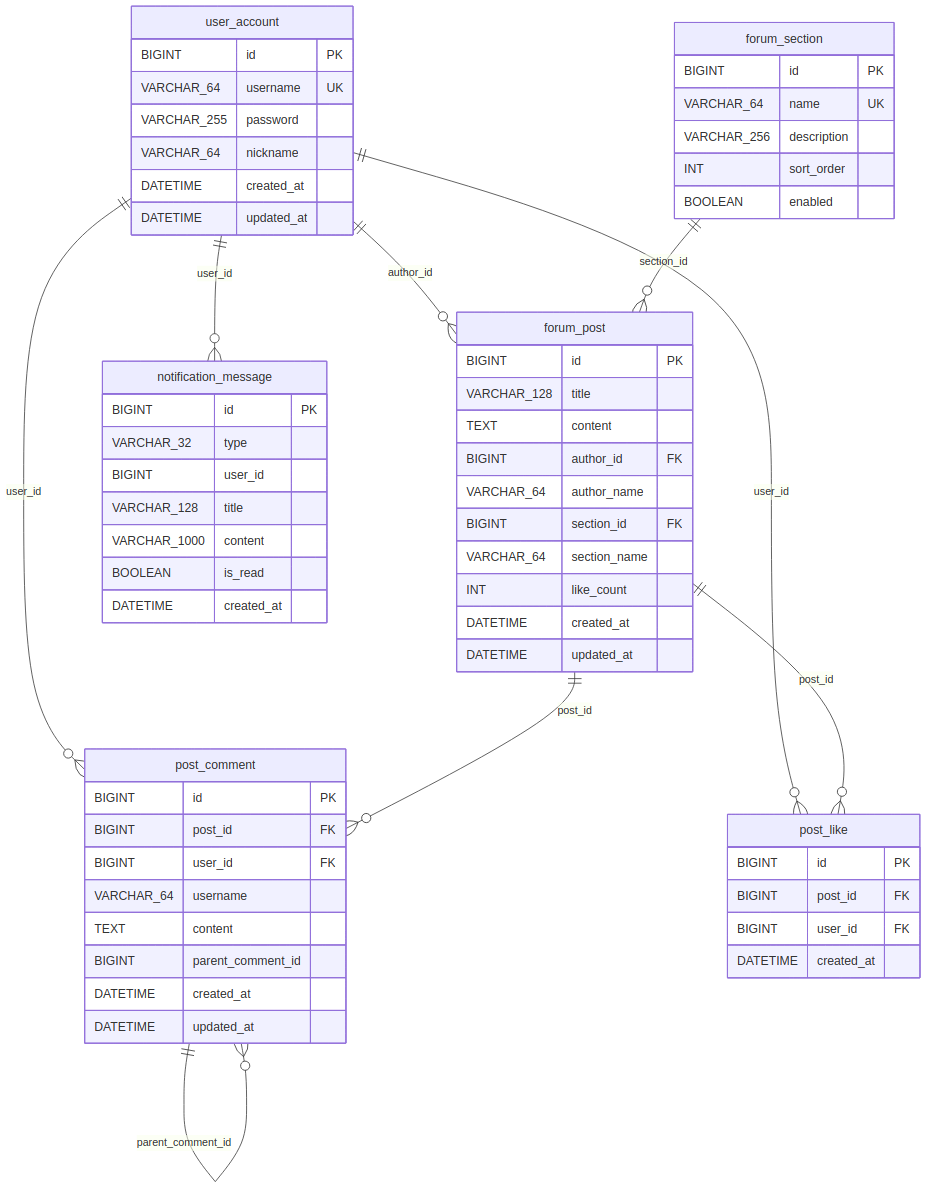
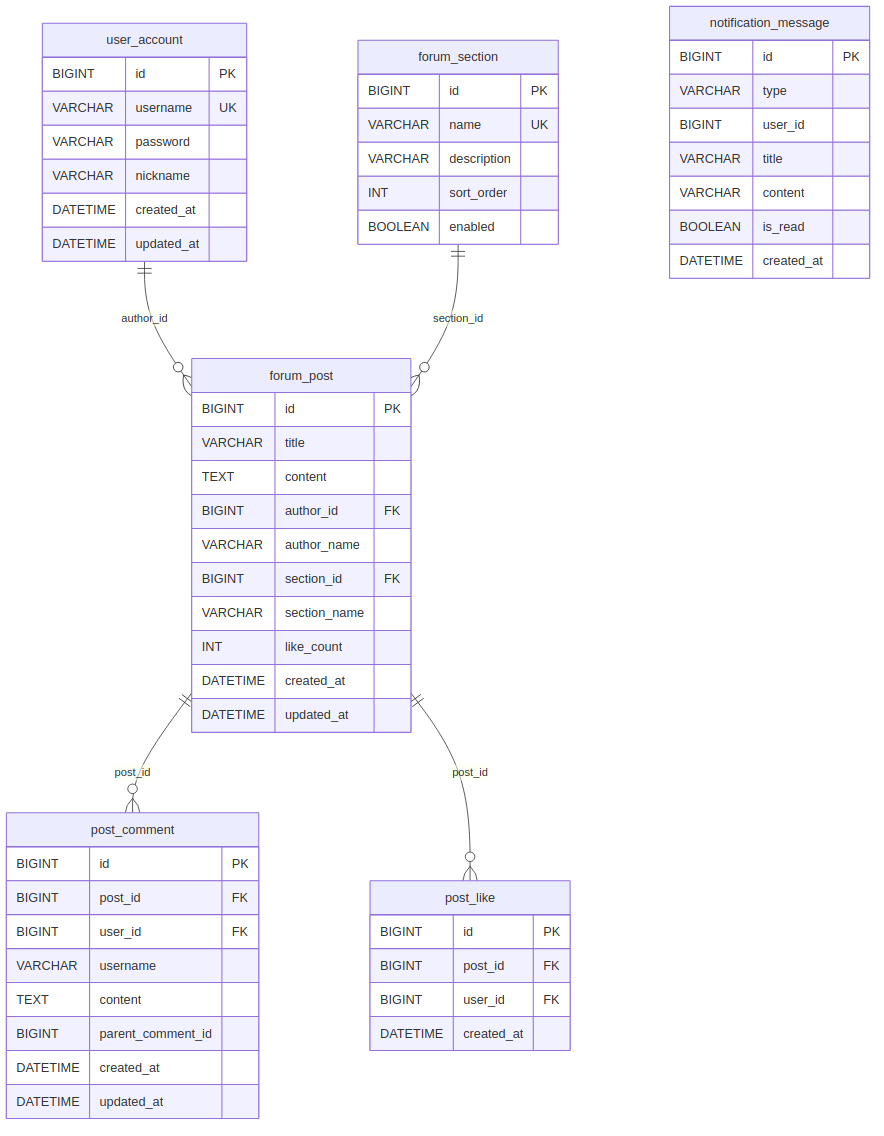
docs: ER图精简为4条核心关系线消除交叉, 其余关系以FK标记+正文说明

diff --git a/docs/第四章 系统详细设计与实现.md b/docs/第四章 系统详细设计与实现.md
@@ -38,7 +38,7 @@ media-service 提供两个接口：媒体首页（GET /media/home）和推荐列
 
 4.3 数据库设计
 
-系统的业务数据全部存储在 MySQL 数据库的 forum_system 库中，由 JPA 的 ddl-auto:update 机制在各服务首次启动时自动创建表结构。数据库共包含 6 张业务表，分属认证服务、论坛服务和通知服务三个模块。各实体之间的关联关系如图 4-4 所示：一个用户可以发布多篇帖子、发表多条评论、产生多条点赞记录和接收多条通知消息；一个分区下可以包含多篇帖子；一篇帖子可以拥有多条评论和多条点赞；评论之间通过 parent_comment_id 字段形成自关联的二级回复结构。
+系统的业务数据全部存储在 MySQL 数据库的 forum_system 库中，由 JPA 的 ddl-auto:update 机制在各服务首次启动时自动创建表结构。数据库共包含 6 张业务表，分属认证服务、论坛服务和通知服务三个模块。各实体之间的核心关联关系如图 4-4 所示：user_account 通过 author_id 与 forum_post 构成一对多关系（一个用户发布多篇帖子），forum_section 通过 section_id 与 forum_post 构成一对多关系（一个分区包含多篇帖子），forum_post 通过 post_id 分别与 post_comment 和 post_like 构成一对多关系。此外，post_comment 的 user_id 字段关联 user_account、post_like 的 user_id 字段关联 user_account、notification_message 的 user_id 字段关联 user_account、post_comment 的 parent_comment_id 字段自关联形成二级回复结构，这些关系因连线过密未在图中绘出，各表中已通过 FK 标记标注了外键字段。
 
 图 4-4 数据库 E-R 图
 
